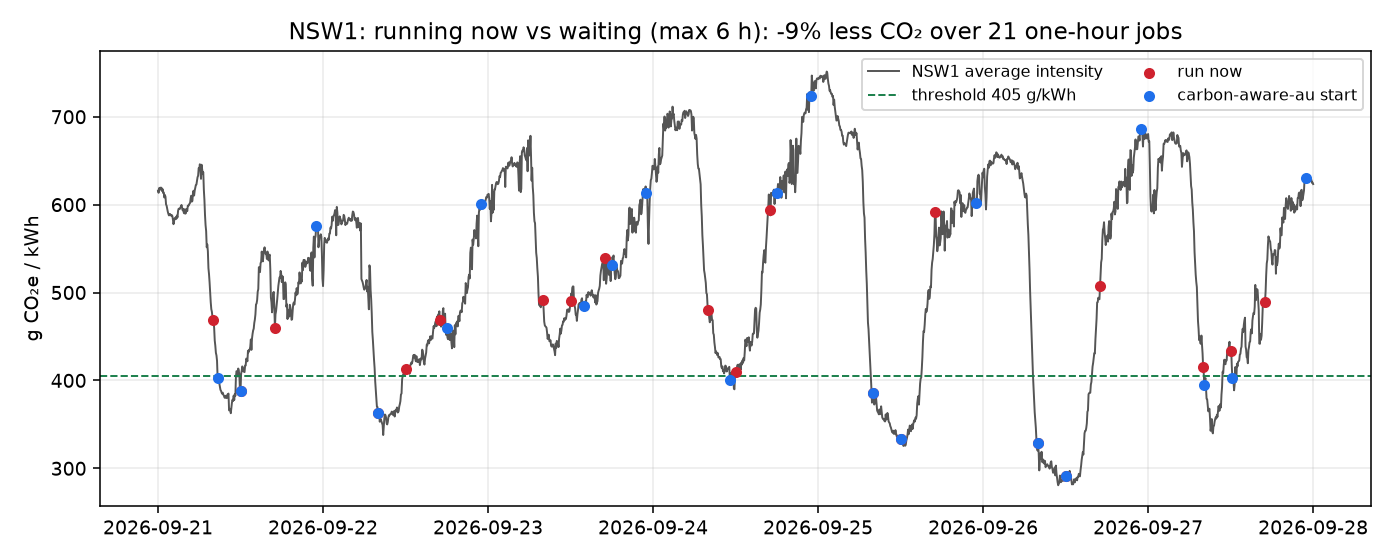
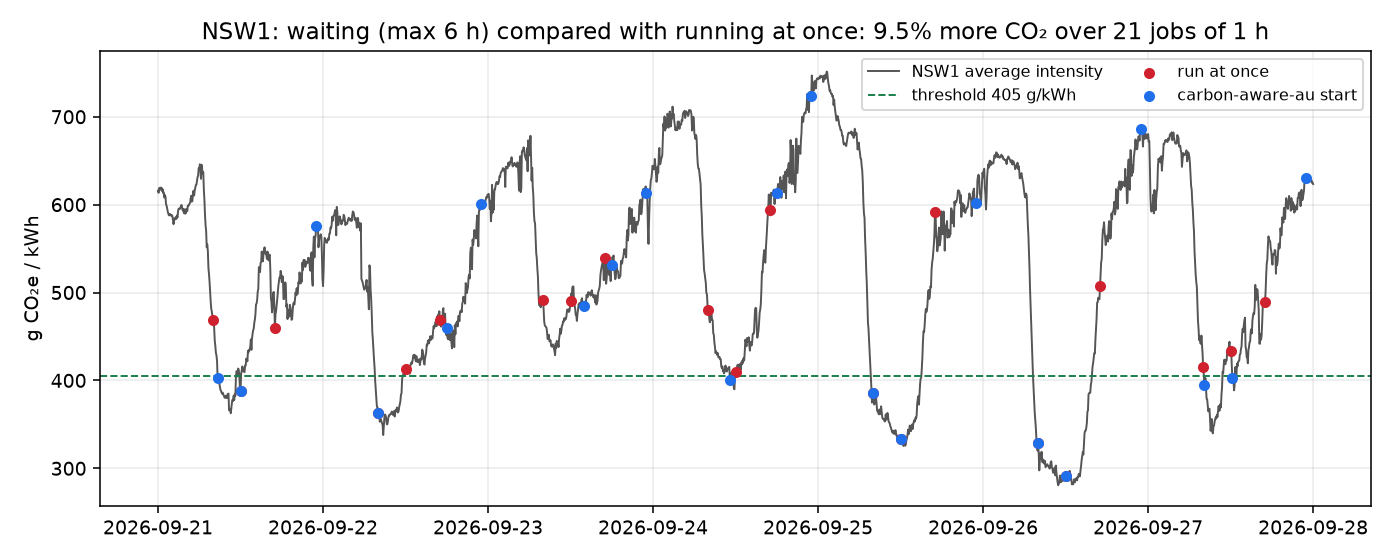
Add a terminal hero image and regenerate the week charts
- assets/terminal.svg (and .png): real output of "now" and a 10 minute
  "wait" on VIC1, captured on 13 October 2026
- week charts: titles say "3.9% more CO2" instead of "-4% less CO2";
  numbers are unchanged

Changed region(s): [[0.1229, 0.0304, 0.8907, 0.0911], [0.86, 0.1214, 0.9214, 0.1518]]

diff --git a/scripts/simulate_week.py b/scripts/simulate_week.py
@@ -66,8 +66,8 @@ fig, ax = plt.subplots(figsize=(10, 4))
 sw = s[pd.Timestamp(start) : pd.Timestamp(start) + pd.Timedelta(days=ndays)]
 ax.plot(sw.index, sw.values, color="#555", lw=1, label=f"{region} average intensity")
 ax.axhline(threshold, color="#1a7f4b", ls="--", lw=1, label=f"threshold {threshold:.0f} g/kWh")
-ax.scatter(df["request"], [s.asof(t) for t in df["request"]], color="#cf222e", s=22, zorder=3, label="run now")
+ax.scatter(df["request"], [s.asof(t) for t in df["request"]], color="#cf222e", s=22, zorder=3, label="run at once")
 ax.scatter(df["start_wait"], [s.asof(t) for t in df["start_wait"]], color="#1f6feb", s=22, zorder=3, label="carbon-aware-au start")
-ax.set_ylabel("g CO₂e / kWh"); ax.set_title(f"{region}: waiting (max {MAX_WAIT_H:.0f} h) vs running now: {change(saving)} CO₂ over {len(df)} one-hour jobs")
+ax.set_ylabel("g CO₂e / kWh"); ax.set_title(f"{region}: waiting (max {MAX_WAIT_H:.0f} h) compared with running at once: {change(saving)} CO₂ over {len(df)} jobs of 1 h")
 ax.legend(loc="upper right", fontsize=8, ncol=2); ax.grid(alpha=.25)
 fig.tight_layout(); fig.savefig(f"assets/week-{region.lower()}.png", dpi=140)
